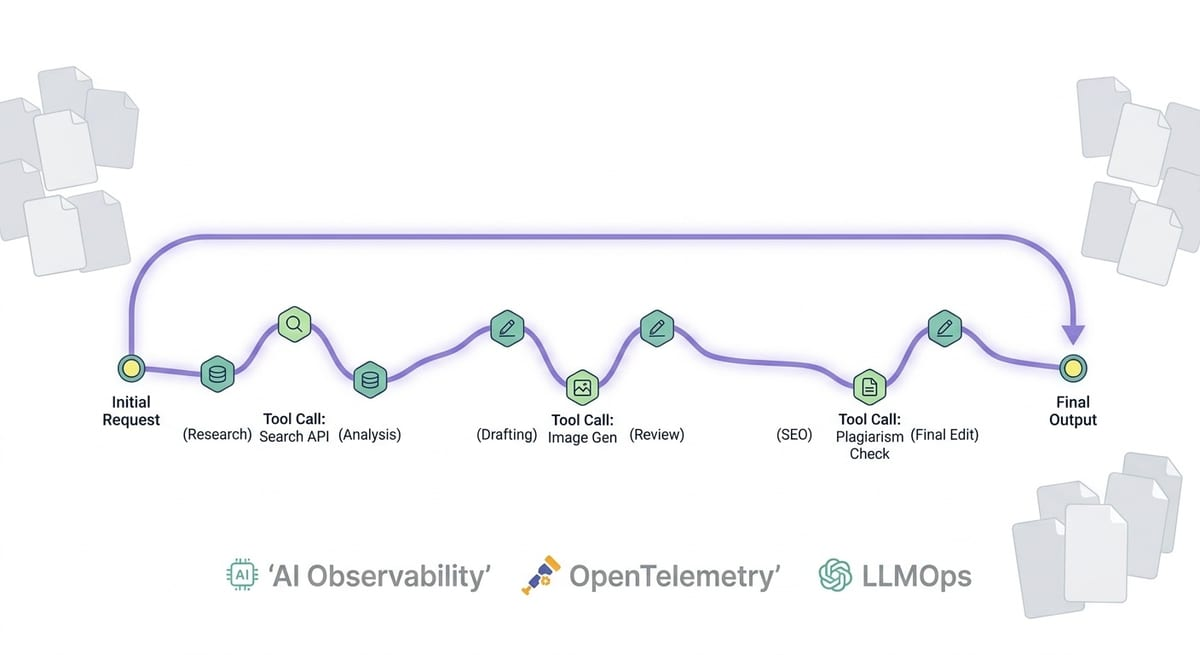
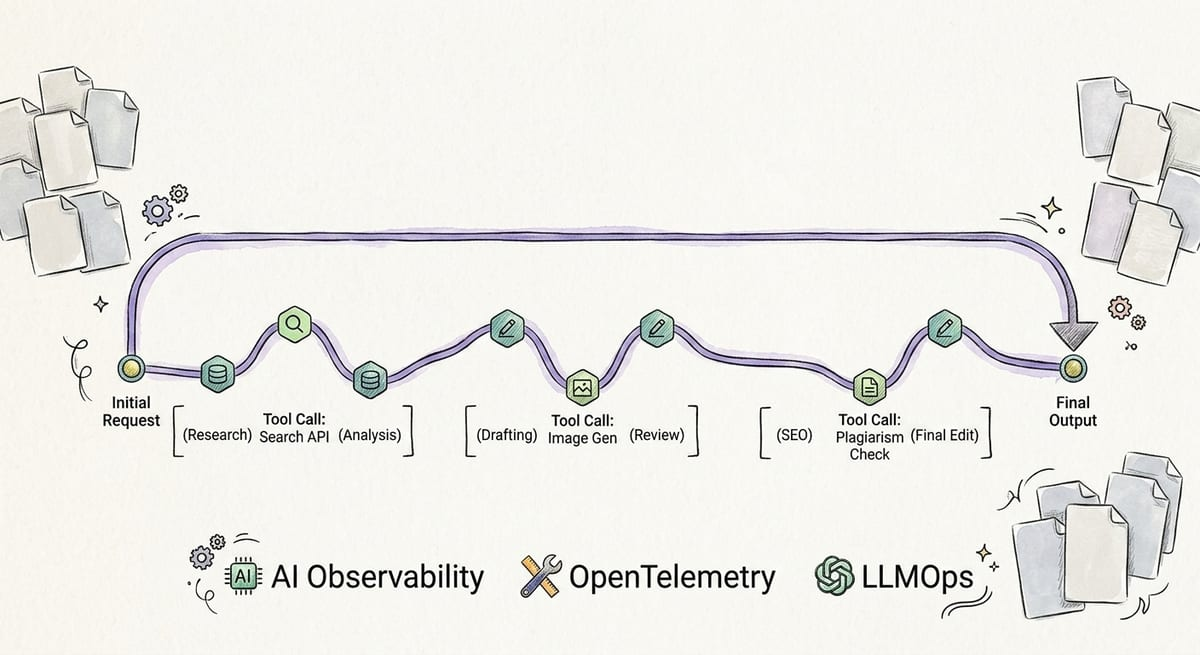
Unbreak the deploy by moving the post hero into public/hero
The site has not deployed since #53 merged. Between that pull request
being written and being merged, the post was edited twice in the CMS,
which re-uploaded its hero under the old media folder. The guard added
in #53 then rejected the path, the build failed, and the deploy with it.

The image moves to public/hero and the entry points at it, resized on
the way as before — 598KB becomes 69KB, which matters now that the
committed file is what visitors download.

This has to land before anything else. The CMS reads its configuration
from the deployed site, so while the deploy is failing the editor is
still being served the old media folder — every hero uploaded from it
would land in the wrong place and break the build again. Merging this
publishes the new configuration and closes that loop.

diff --git a/src/content/blog/fourteen-agents-one-trace-observability-for-multi-agent-systems.md b/src/content/blog/fourteen-agents-one-trace-observability-for-multi-agent-systems.md
@@ -11,7 +11,7 @@ tags:
   - OpenTelemetry
   - LLMOps
 draft: false
-heroImage: ../../assets/work/Gemini_Generated_Image_5an2sg5an2sg5an2.jpg
+heroImage: /hero/fourteen-agents-one-trace.jpg
 ---
 
 ## Fourteen Logs Are Fourteen Haystacks
